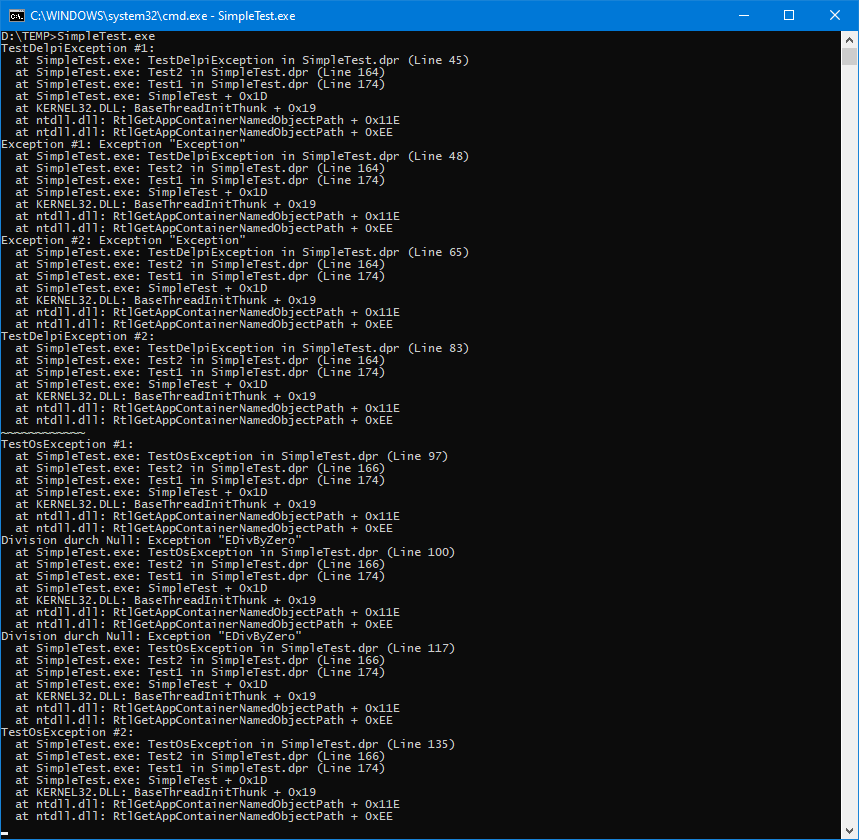
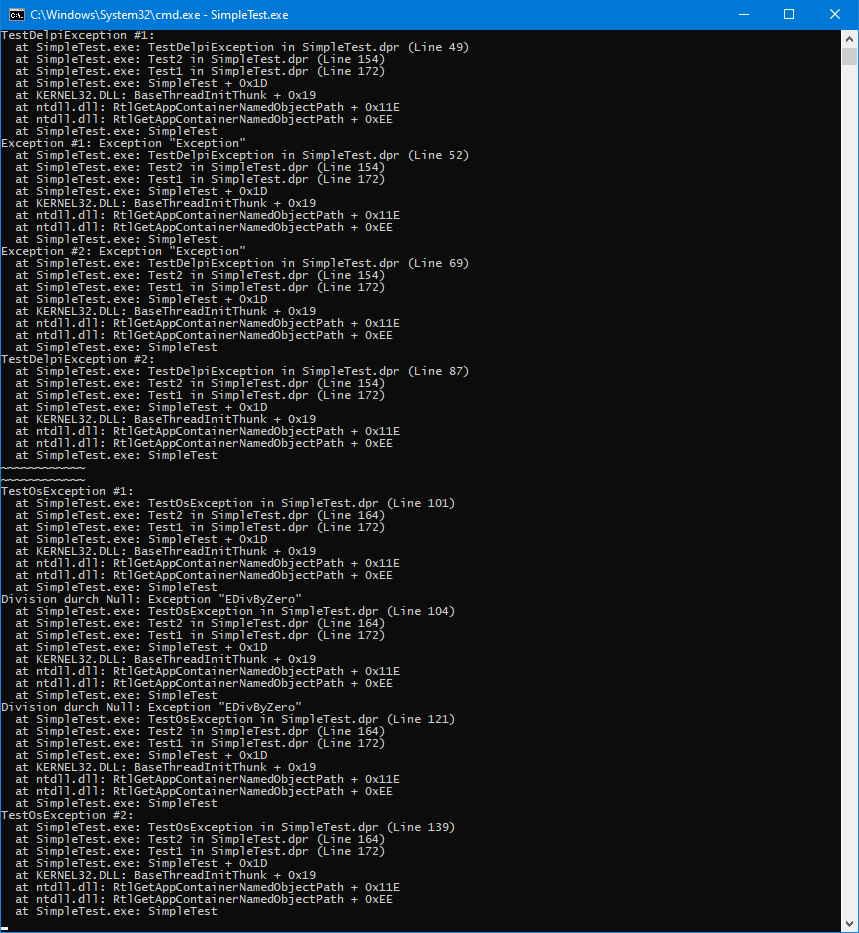
Detects DLL unloading
Should make it more usable with dynamic plug-ins implemented as DLLs.

Changed region(s): [[0.0, 0.0, 0.9988, 1.0], [0.4843, 0.8667, 0.5448, 0.8976]]

diff --git a/README.md b/README.md
@@ -40,9 +40,3 @@ stackinfo from the original object which is now gone. It is not possible to recr
 very last stackinfo, but depending on other exceptions thrown and catched between the original point and the reraise point,
 it may be no longer the correct one.
 
-
-Open issue:
-
-When a DLL get unloaded, it's address space may get reused by other DLls loaded thereafter. So the symbol cache maintained by
-DbgHelp needs to be invalided somehow on DLL unloading. But there is no clean way to get notifications from Windows when a
-DLL is unloaded (besides LdrRegisterDllNotification which is marked "deprecated" by Microsoft).
